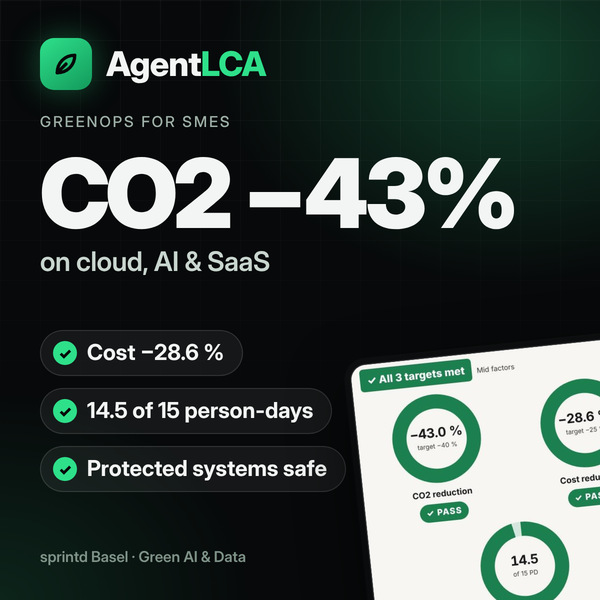
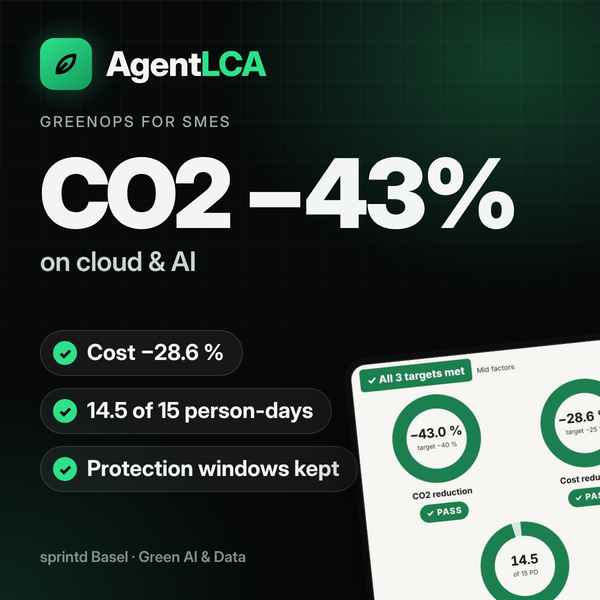
[R7] QA fixes: reconciliation wording, protection wording, checks wording, SaaS CO2 note, thumbnail v4
Claude-Session: https://claude.ai/code/session_01X3xYSHbEbdu4Urff5UCfou

Changed region(s): [[0.27, 0.75, 0.57, 0.81], [0.24, 0.42, 0.45, 0.45]]

diff --git a/submission/form_values.md b/submission/form_values.md
@@ -11,9 +11,9 @@ Reply «approve» or a change in Slack. Nobody presses Submit before every teamm
 
 *The problem.* «Electricity is the new currency, and hardly anyone keeps the books.» A Basel company of about 112 people runs cloud, servers, AI and SaaS in several countries for CHF 470,289 a year. The invoices show francs; nobody sees the energy and CO2 behind them. ALTYCA: «The CO2 impact is at the centre, the savings in francs come on top.»
 
-*Our solution.* A CO2-first app a manager understands in two minutes. Connect: the case files become one baseline that matches the invoices to the franc (CHF 470,288.93, checked three ways). Find: findings with cost, energy and CO2 for each, and their source. Decide: a package of eight measures plus one AI routing change that cuts location-based CO2 by 43.0 % (49.6 % on low factors, 42.2 % on high; counting paused servers at idle power, 39.2 %), cost by 28.6 % (CHF 134,306 a year) within 14.5 person-days (CHF 15,950). Know the limits: planted instructions in the data are refused, protected systems are never switched off, and every decision a human must take names the responsible role.
+*Our solution.* A CO2-first app a manager understands in two minutes. Connect: the case files become one baseline that reconciles to the source files to the franc (CHF 470,288.93 incl. CHF 6,631 imputed, checked by an independent recalculation). Find: findings with cost, energy and CO2 for each, and their source. Decide: a package of eight measures plus one AI routing change that cuts location-based CO2 by 43.0 % (49.6 % on low factors, 42.2 % on high; counting paused servers at idle power, 39.2 %), cost by 28.6 % (CHF 134,306 a year) within 14.5 person-days (CHF 15,950). Know the limits: planted instructions in the data are refused, protection windows are always kept, production, backup and emergency fallback are never switched off, and every decision a human must take names the responsible role.
 
-*How it works, real and mocked.* Python pipeline → findings → measures → Streamlit app, all offline. Real: every cost, energy and CO2 number is computed from the ALTYCA sample data; two automatic checks (baseline match, trap guard) run before every merge. Assumptions: energy and grid factors with low/mid/high ranges and sources, realisation shares and person-days per measure. Limited: the «Ask the data» assistant is an offline keyword router over the same calculations; a Claude mode exists but is off in the demo. Nothing is invented.
+*How it works, real and mocked.* Python pipeline → findings → measures → Streamlit app, all offline. Real: every cost, energy and CO2 number is computed from the ALTYCA sample data; two automatic checks (baseline match, trap guard) run at the end of every Claude session and by hand before merging. SaaS has no energy factor, so its CO2 counts as zero; the CO2 cut comes from cloud and AI. Assumptions: energy and grid factors with low/mid/high ranges and sources, realisation shares and person-days per measure. Limited: the «Ask the data» assistant is an offline keyword router over the same calculations; a Claude mode exists but is off in the demo. Nothing is invented.
 
 *Next four weeks.* Connect live billing exports (AWS, Azure, AI gateway) instead of files; hourly Swiss grid factors for load shifting; pilot the two biggest measures with a real SME and ALTYCA, inside the protection windows; DE/EN, Swiss number formats and a data-stays-local setup for the DACH market; count our own AI energy in full.
 

diff --git a/README.md b/README.md
@@ -23,7 +23,7 @@ The two case templates and the path-to-operation note are in `submission/` (see 
 ## What is real and what is mocked
 
 Real: every cost, energy and CO2 number is computed from the case sample data by `pipeline/`, `analysis/` and `measures/`
-(baseline CHF 470,288.93, verified three ways). Assumptions: energy and grid factors (low / mid / high, sources in `factors/`),
+(baseline CHF 470,288.93, checked by an independent recalculation). Assumptions: energy and grid factors (low / mid / high, sources in `factors/`),
 realisation shares and person-days per measure. Limited: the «Ask the data» assistant runs offline as a keyword router that calls the same calculations on `out/`; a Claude mode exists in the code but is off for the demo. Nothing is mocked with invented numbers.
 
 ## AI tools and templates we started from
@@ -31,6 +31,6 @@ realisation shares and person-days per measure. Limited: the «Ask the data» as
 Built during the sprint, from an empty repository and the case data. No code template.
 AI coding agents: Claude Code (Anthropic) and Claude in the claude.ai app for planning and review; Grok (xAI) through Cursor
 cloud agents for app development; teammates' Claude agents for analysis and factor research.
-Agent rules are in `AGENTS.md` and `CLAUDE.md`; every agent's output was checked by `pipeline/verify_baseline.py` and `pipeline/trap_guard.py`.
+Agent rules are in `AGENTS.md` and `CLAUDE.md`; `pipeline/verify_baseline.py` and `pipeline/trap_guard.py` run at the end of every Claude session (Stop hook) and by hand before merging; there is no CI yet.
 
 Data: «Sample data ALTYCA, sprintd Basel 2026».
